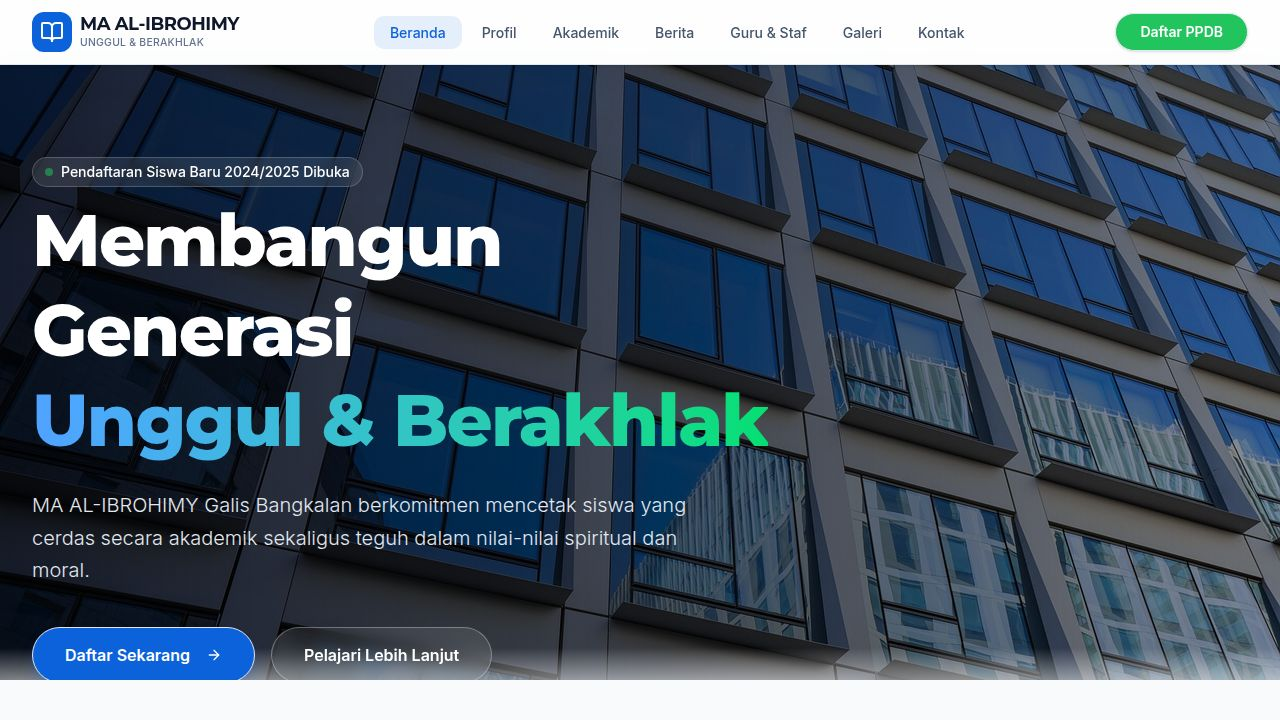
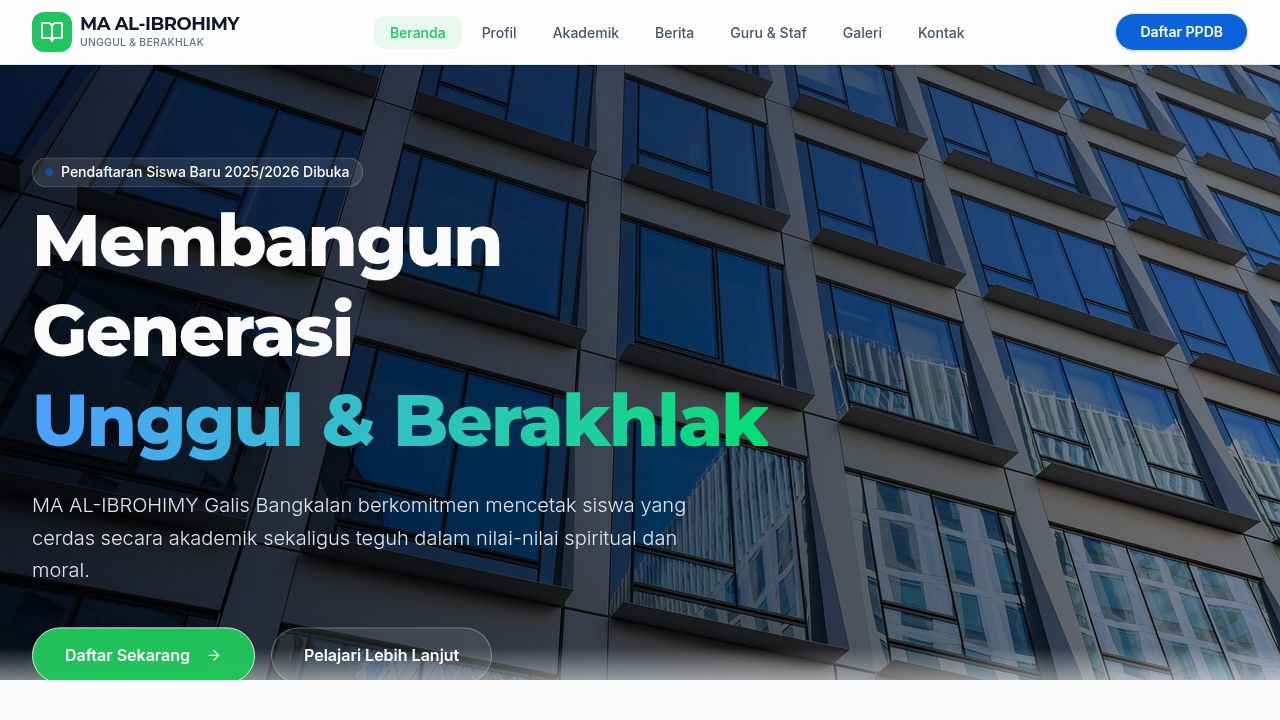
Update school website colors to feature green as primary
Adjusted CSS color variables in index.css to swap primary and secondary colors, making green the main theme and blue the secondary, along with updating the ring color.

Replit-Commit-Author: Agent
Replit-Commit-Session-Id: 83108f81-5b28-4d81-bc91-4db985eff46c
Replit-Commit-Checkpoint-Type: full_checkpoint
Replit-Commit-Event-Id: 7b1c3f8c-13f3-4d5b-a44f-f7d366cdcb0d
Replit-Commit-Screenshot-Url: https://storage.googleapis.com/screenshot-production-us-central1/46c632c4-755c-4942-bc15-72b10f4f4e83/83108f81-5b28-4d81-bc91-4db985eff46c/GYKSwOl
Replit-Helium-Checkpoint-Created: true

diff --git a/client/src/index.css b/client/src/index.css
@@ -44,13 +44,13 @@
   --popover: 0 0% 100%;
   --popover-foreground: 222 47% 11%;
   
-  /* Primary: Trustworthy Blue */
-  --primary: 215 90% 45%; 
-  --primary-foreground: 210 40% 98%;
+  /* Primary: Islamic Green */
+  --primary: 142 71% 45%; 
+  --primary-foreground: 0 0% 100%;
   
-  /* Secondary: Fresh Green */
-  --secondary: 142 71% 45%;
-  --secondary-foreground: 0 0% 100%;
+  /* Secondary: Trustworthy Blue */
+  --secondary: 215 90% 45%;
+  --secondary-foreground: 210 40% 98%;
   
   /* Muted / Neutral */
   --muted: 210 40% 96.1%;
@@ -67,7 +67,7 @@
   /* Borders & Inputs */
   --border: 214.3 31.8% 91.4%;
   --input: 214.3 31.8% 91.4%;
-  --ring: 215 90% 45%;
+  --ring: 142 71% 45%;
   
   --radius: 0.75rem;
 }
@@ -79,9 +79,9 @@
   --card-foreground: 210 40% 98%;
   --popover: 222 47% 11%;
   --popover-foreground: 210 40% 98%;
-  --primary: 217.2 91.2% 59.8%;
+  --primary: 142 71% 45%;
   --primary-foreground: 222.2 47.4% 11.2%;
-  --secondary: 142 71% 45%;
+  --secondary: 217.2 91.2% 59.8%;
   --secondary-foreground: 222.2 47.4% 11.2%;
   --muted: 217.2 32.6% 17.5%;
   --muted-foreground: 215 20.2% 65.1%;
